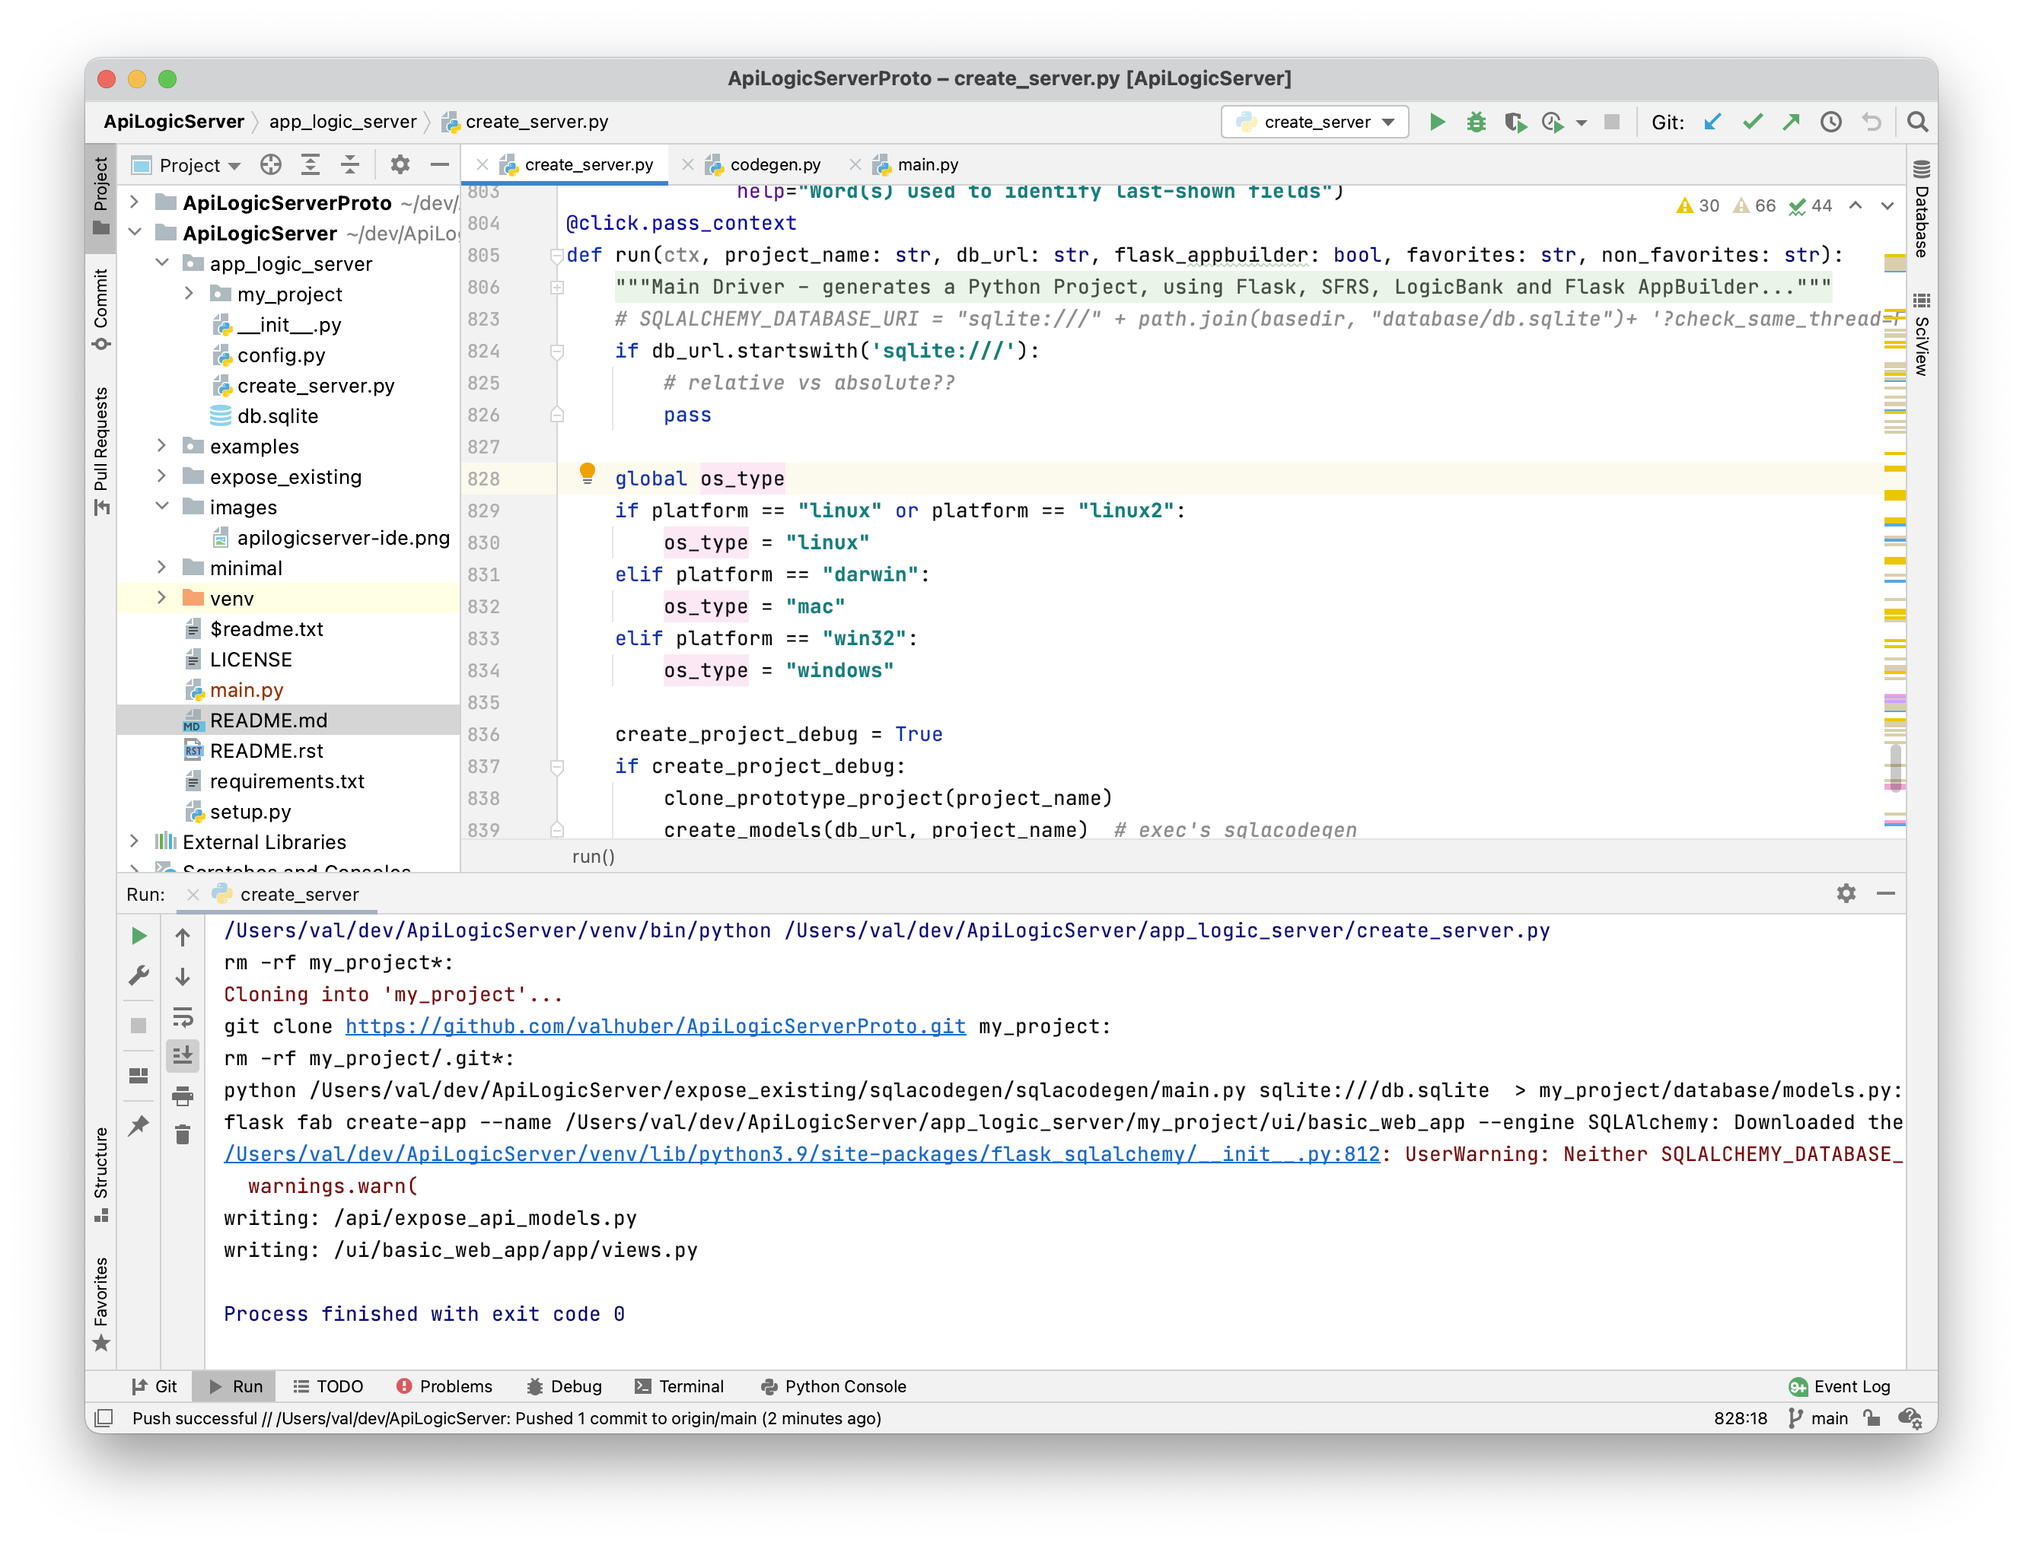
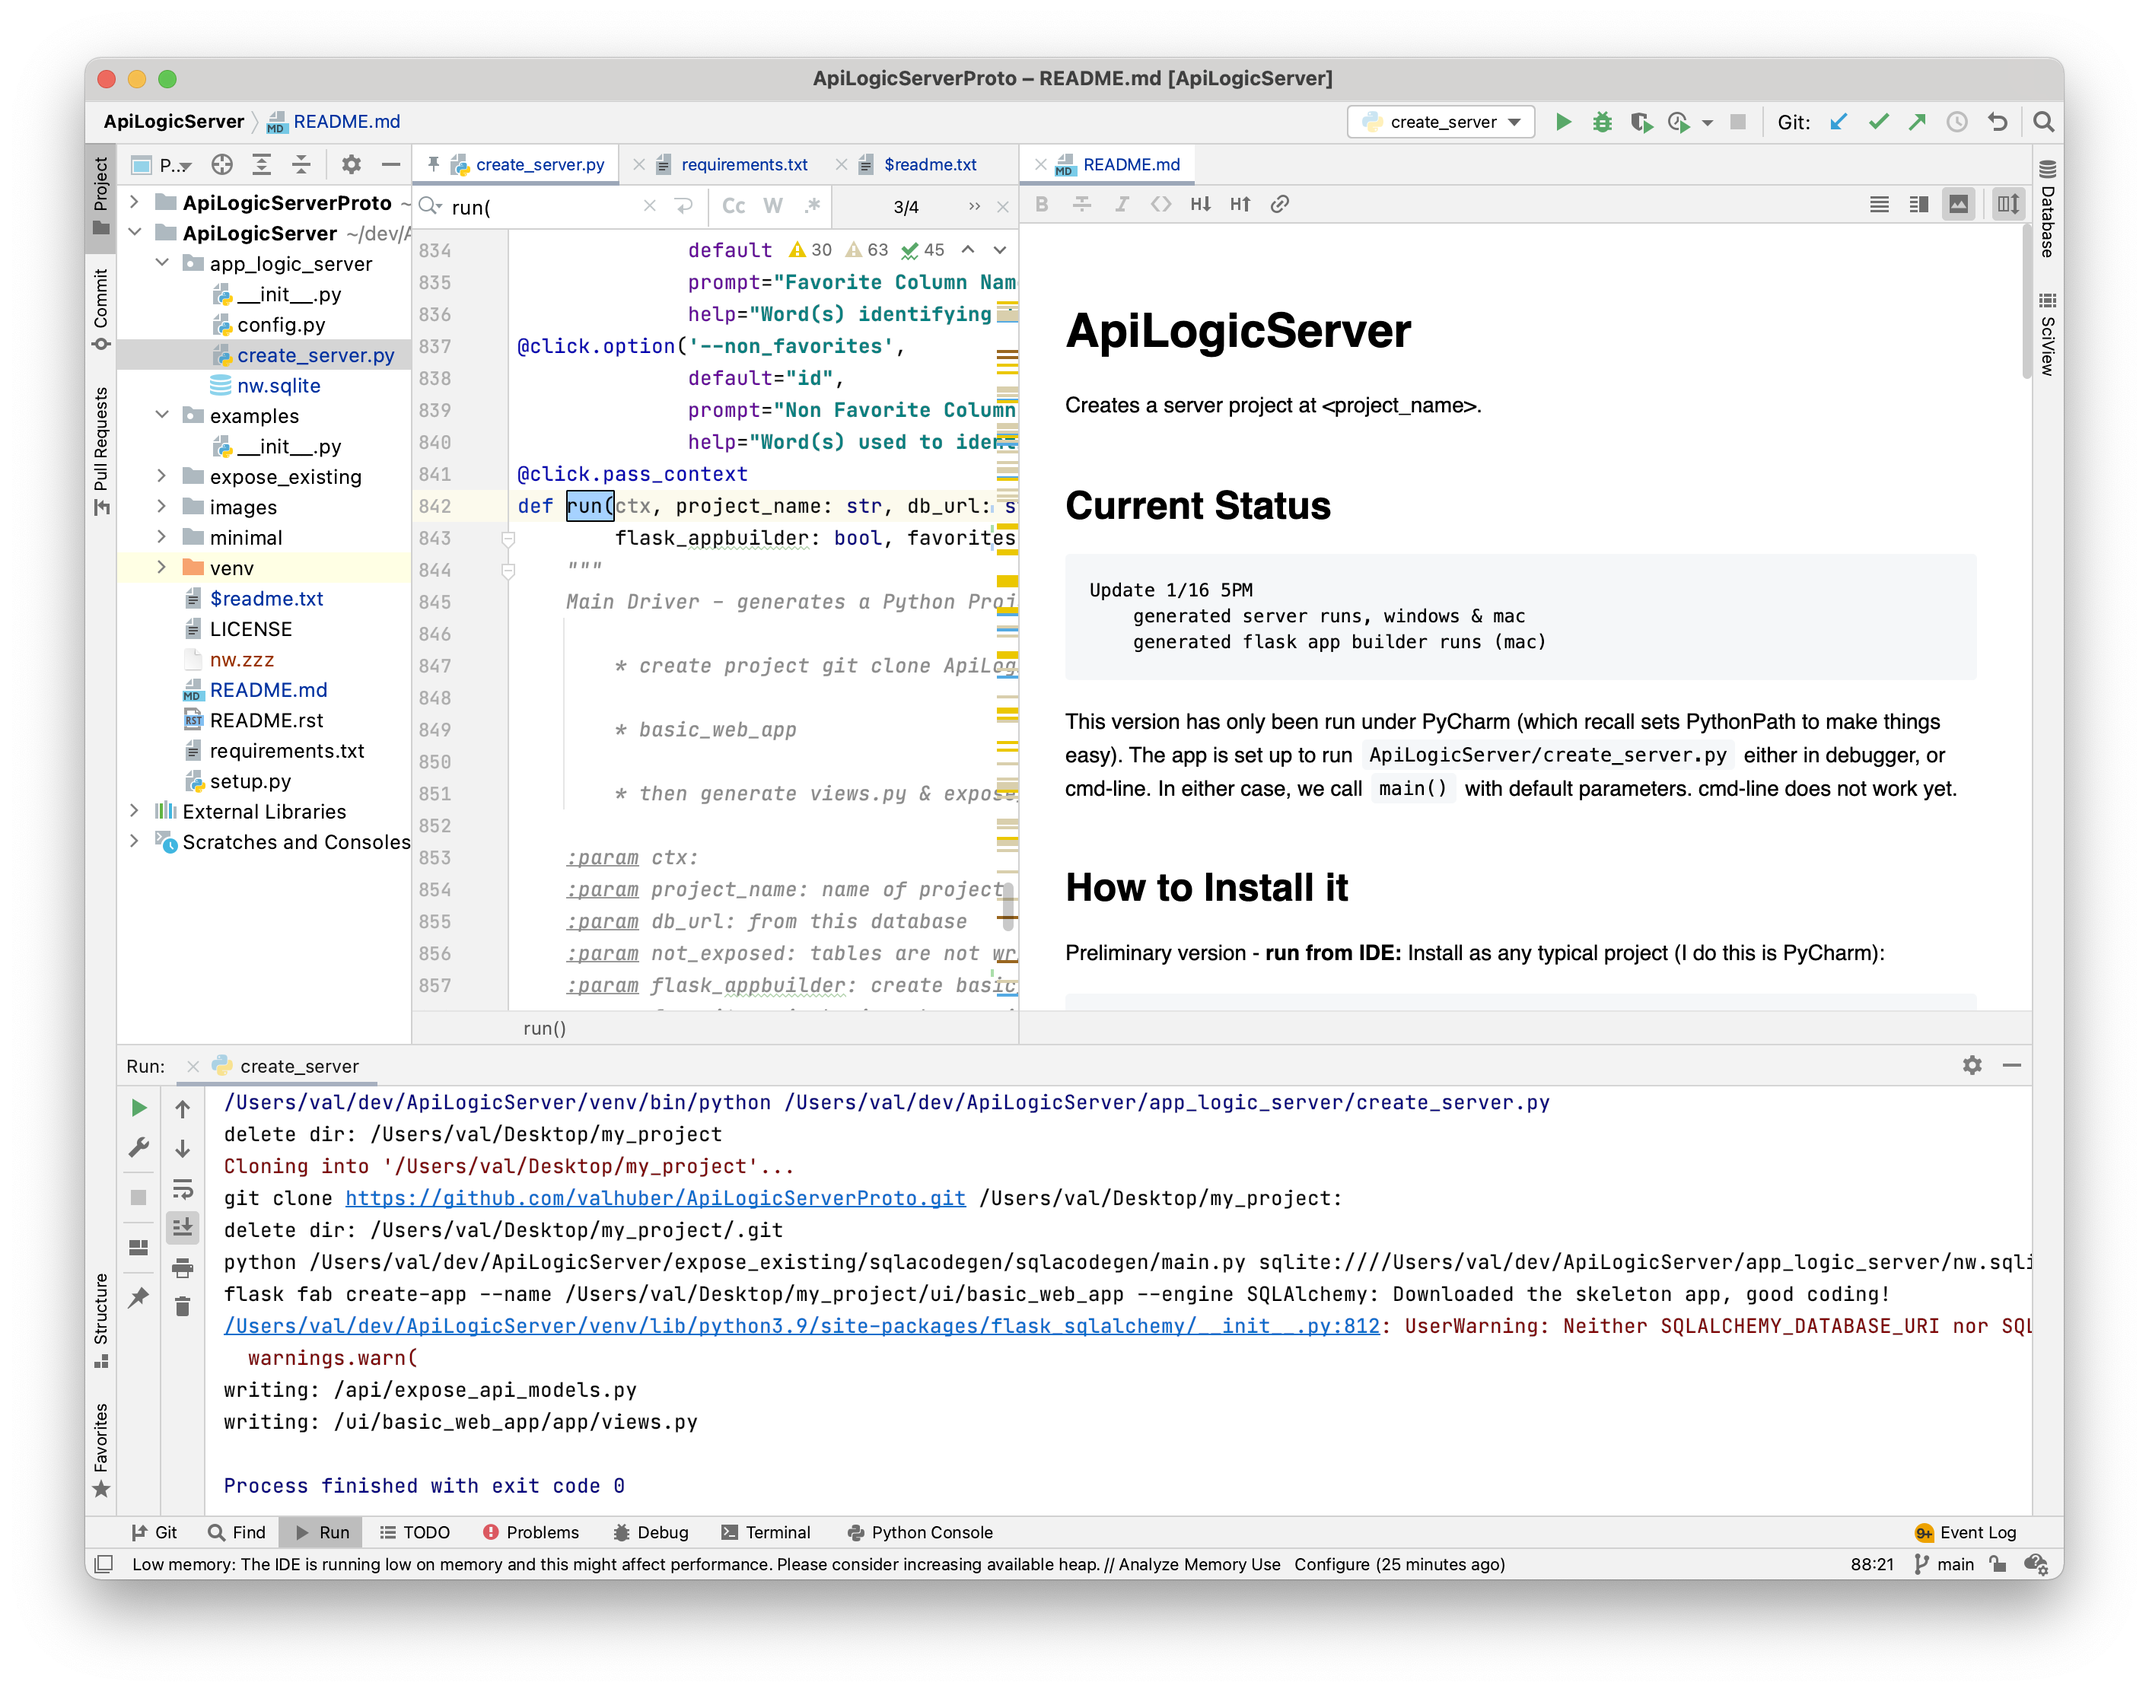
win/mac running - server & IDE

Changed region(s): [[0.0312, 0.031, 0.968, 0.9611]]

diff --git a/app_logic_server/create_server.py b/app_logic_server/create_server.py
@@ -308,8 +308,7 @@ class GenerateFromModel(object):
         result += "from flask_appbuilder.models.sqla.interface "\
             "import SQLAInterface\n"
         result += "from . import appbuilder, db\n"
-        result += "from .models import *\n"
-        result += "\n"
+        result += "from database.models import *\n"
         return result
 
     def process_each_table(self, a_table_def: MetaDataTable) -> str:
@@ -333,6 +332,8 @@ class GenerateFromModel(object):
         log.debug("process_each_table: " + table_name)
         if "TRANSFERFUND" in table_name:
             log.debug("special table")  # debug stop here
+        if (table_name + " " in self.not_exposed):
+            return "# not_exposed: api.expose_object(models.{table_name})"
         if "ProductDetails_V" in table_name:
             log.debug("special table")  # should not occur (--noviews)
         if table_name.startswith("ab_"):
@@ -356,10 +357,7 @@ class GenerateFromModel(object):
                 self.result_apis += '    """this is called by api / __init__.py"""\n\n'
                 self.result_apis += \
                     '    api = SAFRSAPI(app, host=HOST, port=PORT)\n'
-            if (table_name + " " in self.not_exposed):
-                self.result_apis += f'    # api.expose_object(models.{table_name})\n'
-            else:
-                self.result_apis += f'    api.expose_object(models.{table_name})\n'
+            self.result_apis += f'    api.expose_object(models.{table_name})\n'
 
             self.num_pages_generated += 1
 
@@ -911,6 +909,9 @@ def run(ctx, project_name: str, db_url: str, not_exposed: str,
     replace_string_in_file(search_for="replace_db_url",
                            replace_with=abs_db_url,
                            in_file=f'{abs_project_name}/config.py')
+    replace_string_in_file(search_for='"sqlite:///" + os.path.join(basedir, "app.db")',  # odd extra paren...
+                           replace_with=f'"{abs_db_url}"',
+                           in_file=f'{abs_project_name}/ui/basic_web_app/config.py')
 
     if flask_appbuilder:
         print("writing: /ui/basic_web_app/app/views.py")

diff --git a/README.md b/README.md
@@ -1,12 +1,13 @@
-# ApiLogicServer Operation
-Preliminary version, *envisioned* to be used:
-```
-virtualenv venv
-pip install ApiLogicServer
-pip install -r requirements.txt  -- from where??
-ApiLogicServer <project_name>
-```
+# ApiLogicServer
+
 Creates a server project at <project_name>.
+
+## Current Status
+
+    Update 1/16 5PM
+        generated server runs, windows & mac
+        generated flask app builder runs (mac)
+
 
 This version has only been run under PyCharm (which recall sets
 PythonPath to make things easy).  The app is set up to run
@@ -14,8 +15,8 @@ PythonPath to make things easy).  The app is set up to run
 in debugger, or cmd-line.  In either case, we call ```main()```
 with default parameters.  cmd-line does not work yet.
 
-## How to generate it
-
+## How to Install it
+Preliminary version - **run from IDE:**
 Install as any typical project (I do this is PyCharm):
 
 ```
@@ -23,28 +24,33 @@ git clone https://github.com/valhuber/ApiLogicServer.git
 cd ApiLogicServer
 virtualenv venv
 source venv/bin/activate
+```
+
+*Envisioned* to be used:
+```
+virtualenv venv
+pip install ApiLogicServer
+pip install -r requirements.txt  -- from where??
+ApiLogicServer <project_name>
+```
+
+
+## How to generate the API Server
+
+Install as any typical project (I do this is PyCharm):
+
+```
 cd app_logic_server
-python create_server.py  # or run from IDE
+# run create_server.py from IDE
 ```
+Currently hard-coded to create default project: ```Desktop/my_project```.
 
-Here, the default project is ```my_project```, within ```ApiLogicServer```.
-
-It's currently hard-coded to my machine, so change this line in ```create_server.py```:
-```
-        '--db_url=sqlite:///Users/val/dev/ApiLogicServer/app_logic_server/nw.sqlite',
-```
-
-    Update: now working on windows, generated server (nearly) runs
 
 <figure><img src="images/apilogicserver-ide.png"></figure>
 
-## How to run it
-
-The project does not run inside ApiLogicServer.  And that's not where it's going
-to be, so we perform the following procedure:
+## How to run the API Server
 
 ```
-# copy ApiLogicServer/my_project, ~/Desktop/my_project
 cd ~/Desktop/my_project
 virtualenv venv
 source venv/bin/activate
@@ -52,14 +58,16 @@ pip install -r requirements.txt
 python api_logic_server.py
 ```
 
-There is one current bug - it processes views, so you must comment out this line in 
-```expose_api_models.py```:
-
-```
-    # api.expose_object(models.ProductDetails_V)
-```
-
 This should now run, and return data.
+
+## How to run Flask App Builder (FAB)
+This is also running (on mac at least):
+
+```
+cd ui/BasicWebApp
+# run run.py under IDE
+```
+
 
 ## Basic Operation (Internals)
 
@@ -77,9 +85,14 @@ This should now run, and return data.
     
 # Next Steps
 
-## Make Generated Project Work
-So, let's make the generated app run: run the debugger, and
-make required changes to ```my_project```, within ```ApiLogicServer```.
+## Engage Logic Bank
+Not tried yet
+
+## Run outside IDE, via PIP
+As customers might run
+
+## Try with other DBs, non-sqlite
+These will probably fail in FAB, since the admin data is not being created.
     
 ## Command Line Operation
 And, this needs to run from the command line.
